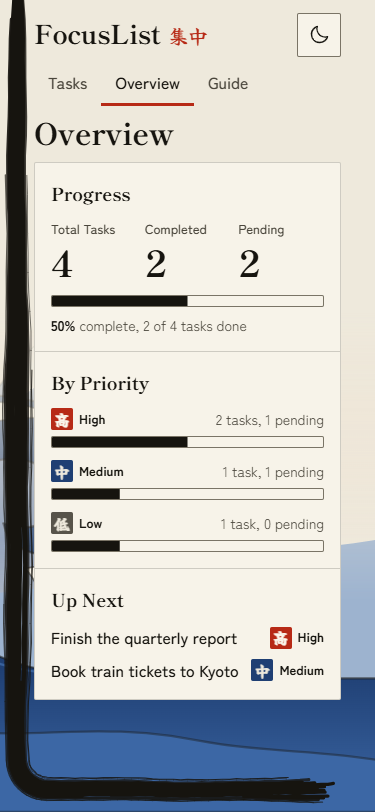
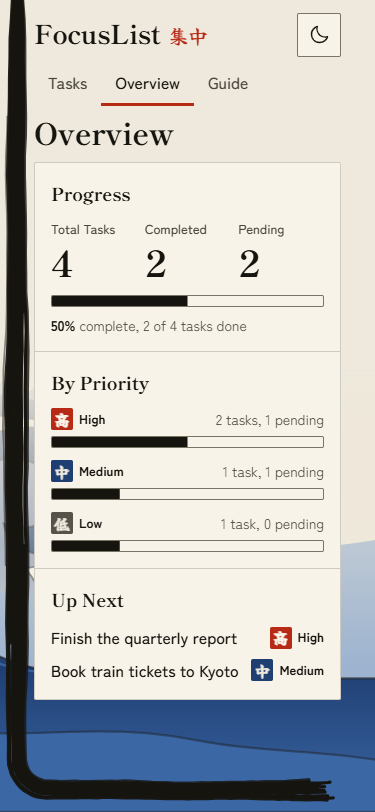
Polish painting, stroke and copy after design review
Fade the painting with a mask instead of a paper wash, single-column pages
with inline stats, one sheet per page, ink completed stamps, dry-brush gaps
and pressure variation in the stroke, pine branch, wider stroke lanes, themed
select, and Web Interface Guidelines fixes (ellipsis placeholders, Title Case,
touch-action).

diff --git a/src/lib/brush.ts b/src/lib/brush.ts
@@ -215,9 +215,9 @@ export function buildBristles(journey: Journey, options: { count: number; seed: 
     const b = core ? 1 : 0.94 + random() * 0.06
     const width = round1(spacing * 1.9)
     // Off-centre body bristles break once (kasure): thin dry lines where the brush ran out of ink.
-    const gapped = core && !center && random() < 0.6
-    const gapStart = 0.12 + random() * 0.7
-    const gapEnd = Math.min(0.97, gapStart + 0.03 + random() * 0.07)
+    const gapped = core && !center && random() < 0.8
+    const gapStart = 0.1 + random() * 0.7
+    const gapEnd = Math.min(0.97, gapStart + 0.05 + random() * 0.1)
     const ranges: [number, number][] = gapped
       ? [
           [a, gapStart],
@@ -240,14 +240,17 @@ export function buildBristles(journey: Journey, options: { count: number; seed: 
     }
   }
 
-  const streaks = Math.max(4, Math.round(count / 3))
+  // Edge streaks stay off the turns: on the inside of a corner they would cross and read as a stray outline.
+  const turns = journey.ends.slice(0, 2).map((end) => [end - 0.03, end + 0.08] as const)
+  const streaks = Math.max(6, Math.round(count / 2))
   for (let k = 0; k < streaks; k += 1) {
     const side = k % 2 === 0 ? -1 : 1
-    const offset = side * (1.02 + random() * 0.28)
-    const start = random() * 0.5
-    const span = 0.25 + random() * 0.5
+    const offset = side * (1.02 + random() * 0.18)
+    const start = random() * 0.6
+    const span = 0.15 + random() * 0.3
     const a = start
     const b = Math.min(1, start + span)
+    if (turns.some(([from, to]) => a < to && b > from)) continue
     const path = pathFor(journey, a, b, offset, jitter(spacing * 0.5))
     if (path.length === 0) continue
     bristles.push({

diff --git a/src/index.css b/src/index.css
@@ -215,13 +215,13 @@
   .backdrop-art {
     position: absolute;
     inset: 0;
-    -webkit-mask-image: linear-gradient(to bottom, transparent 0, transparent 38%, #000 74%);
-    mask-image: linear-gradient(to bottom, transparent 0, transparent 38%, #000 74%);
+    -webkit-mask-image: linear-gradient(to bottom, transparent 0, transparent 44%, #000 82%);
+    mask-image: linear-gradient(to bottom, transparent 0, transparent 44%, #000 82%);
   }
   @media (min-width: 1024px) {
     .backdrop-art {
-      -webkit-mask-image: linear-gradient(to right, transparent 0, transparent 46%, #000 70%);
-      mask-image: linear-gradient(to right, transparent 0, transparent 46%, #000 70%);
+      -webkit-mask-image: linear-gradient(to right, transparent 0, transparent 42%, rgb(0 0 0 / 0.5) 58%, #000 78%);
+      mask-image: linear-gradient(to right, transparent 0, transparent 42%, rgb(0 0 0 / 0.5) 58%, #000 78%);
     }
   }
 

diff --git a/src/components/Backdrop.tsx b/src/components/Backdrop.tsx
@@ -121,7 +121,7 @@ export function Backdrop() {
               <path d="M1270 610C1290 625 1292 648 1276 664C1270 646 1262 630 1248 618Z" />
               <path d="M1236 626C1252 642 1250 664 1234 676C1230 658 1224 642 1212 630Z" />
               <path d="M1300 588C1322 596 1332 618 1322 636C1312 622 1302 608 1290 600Z" />
-              <path d="M1010 500C1090 445 1190 425 1262 470C1210 452 1130 470 1070 520C1050 536 1030 546 1010 552Z" />
+              <path d="M1040 522C1105 466 1190 444 1252 476C1200 466 1135 486 1085 524C1070 531 1052 531 1040 522Z" />
             </g>
             <g fill="var(--p-foam)">
               <circle cx="1350" cy="662" r="7" />

diff --git a/src/components/TaskList.tsx b/src/components/TaskList.tsx
@@ -15,7 +15,7 @@ interface TaskListProps {
 export function TaskList({ tasks, totalCount, onToggle, onEdit, onDelete, onClearFilters }: TaskListProps) {
   return (
     <section aria-label="Task list" className="grid content-start gap-2">
-      <p role="status" className="text-sm text-sumi-soft" data-testid="results-count">
+      <p role="status" className="w-fit bg-paper/85 pr-2 text-sm text-sumi-soft" data-testid="results-count">
         {totalCount === 0 ? 'No tasks yet' : `Showing ${tasks.length} of ${totalCount} ${totalCount === 1 ? 'task' : 'tasks'}`}
       </p>
       {totalCount === 0 ? (
